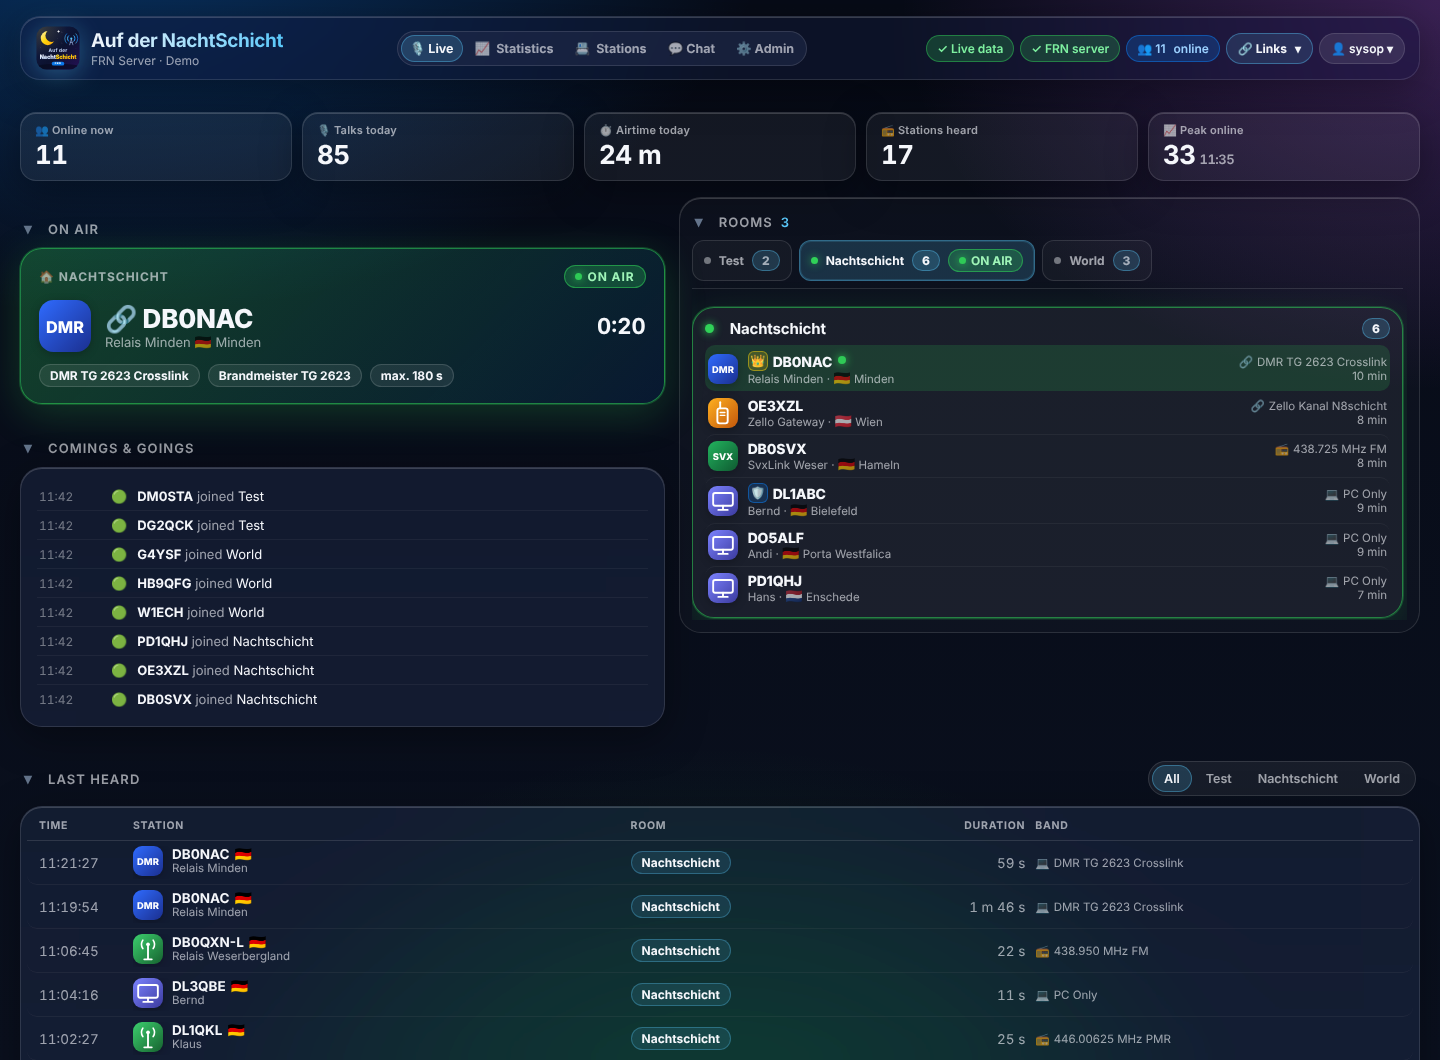
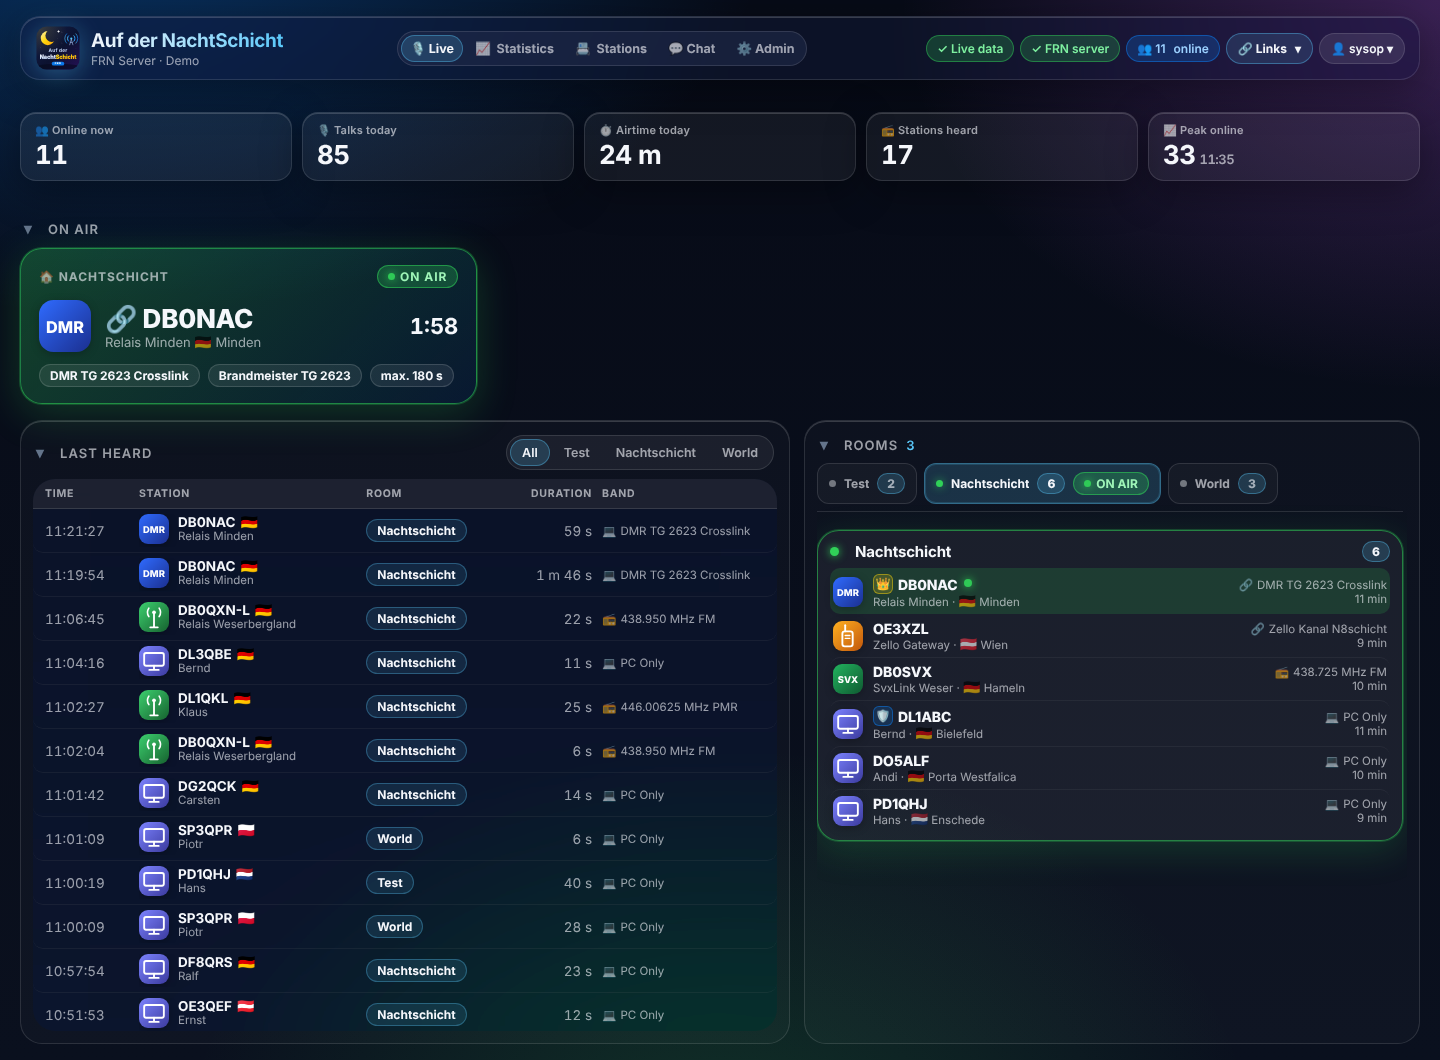
ADN FRN Server 2.4.0: On air oben, Last heard und Räume nebeneinander, Comings & goings in Statistics
- On air direkt unter den Tageskacheln über die volle Breite (still: schmale Zeile)
- Last heard und Rooms nebeneinander, gleich hoch, füllen das Fenster und rollen in sich;
  Höhe passt sich an On air und Fenstergröße an – am Desktop kein Seiten-Scrollen
- Comings & goings im Tab Statistics (letzte 40, live)
- Tablet/Handy: Kacheln, On air, Räume, Last heard
- Doku und Screenshots

Claude-Session: https://claude.ai/code/session_01J5RG2ng91A3UchVF3CB2i8

diff --git a/static/n8-live.css b/static/n8-live.css
@@ -5,16 +5,33 @@
 #tab-live > .stats-bar .stat { padding: 10px 14px; min-width: 0; }
 #tab-live > .stats-bar .stat .v { white-space: nowrap; overflow: hidden; text-overflow: ellipsis; }
 
-/* desktop: tiles / on air + comings & goings left, rooms right / last heard over the full width.
-   On narrow screens the natural order applies: tiles, on air, rooms, last heard, comings & goings. */
-#tab-live { display: grid; grid-template-columns: minmax(0, 1fr) minmax(0, 1.15fr); column-gap: 14px; align-items: start; }
+/* desktop: tiles / on air over the full width / last heard and rooms side by side with the SAME height.
+   Both lists scroll inside their card, so the page itself hardly scrolls. Narrow screens: natural order. */
+#tab-live { display: grid; grid-template-columns: minmax(0, 1.25fr) minmax(0, 1fr); column-gap: 14px; align-items: stretch;
+            --lv-h: clamp(420px, calc(100vh - 300px), 900px); }
 #tab-live > * { min-width: 0; }
 #tab-live > .stats-bar { grid-column: 1 / -1; grid-row: 1; }
-#tab-live > .lv-onair { grid-column: 1; grid-row: 2; }
-#tab-live > .live-rooms { grid-column: 2; grid-row: 2 / span 2; }
-#tab-live > .lv-feed { grid-column: 1; grid-row: 3; }
-#tab-live > .lv-lh { grid-column: 1 / -1; grid-row: 4; }
-#tab-live .feed { max-height: 230px; overflow: auto; }
+#tab-live > .lv-onair { grid-column: 1 / -1; grid-row: 2; }
+#tab-live > .lv-lh { grid-column: 1; grid-row: 3; }
+#tab-live > .live-rooms { grid-column: 2; grid-row: 3; }
+#tab-live > .lv-lh, #tab-live > .live-rooms { display: flex; flex-direction: column; height: var(--lv-h); min-height: 0; }
+#tab-live > .lv-lh > .lh-card, #tab-live > .live-rooms > .rooms { flex: 1 1 auto; min-height: 0; overflow: auto; }
+#tab-live > .lv-lh:has(> .lh-card.hidden), #tab-live > .live-rooms:has(> .rooms.hidden) { height: auto; align-self: start; }
+#tab-live .lh-head { position: sticky; top: 0; z-index: 2; background: var(--surface-2, rgba(20, 26, 45, .9)); }
+/* on air: cards next to each other; "quiet" is one slim line */
+#tab-live .onair { grid-template-columns: repeat(auto-fill, minmax(340px, 1fr)); }
+#tab-live .onair .slot.idle { padding: 9px 16px; display: flex; align-items: center; gap: 14px; min-height: 0; }
+#tab-live .onair .slot.idle .lbl { margin: 0; gap: 10px; }
+#tab-live .onair .slot.idle .idle-text { padding: 0; text-align: left; }
+#tab-live .onair:has(.slot.idle) { grid-template-columns: 1fr; }
+.st-feed .feed { max-height: 360px; overflow: auto; }
+/* last heard gets the same frame as the rooms */
+#tab-live > .lv-lh { border: 1px solid var(--glass-border); border-radius: var(--radius-lg); padding: 12px;
+                     background: rgba(255, 255, 255, .025); box-shadow: inset 0 1px 0 var(--glass-highlight); }
+#tab-live > .lv-lh .section-header { margin: 2px 3px 9px; }
+#tab-live > .lv-lh > .lh-card { background: transparent; border: 0; box-shadow: none; padding: 0 !important; }
+#tab-live > .live-rooms > .rooms { max-height: none; align-content: start; }
+#tab-live > .lv-onair { margin-bottom: 4px; }
 .lh-l1 { display: inline-flex; align-items: center; gap: 5px; }
 
 /* last heard: compact rows */
@@ -38,10 +55,23 @@
 .lh-more { display: block; margin: 6px auto 2px; padding: 5px 14px; border-radius: 999px; font-size: 12px; font-weight: 650; cursor: pointer;
            color: var(--text); background: rgba(127, 127, 127, .1); border: 1px solid var(--glass-border); }
 
+/* the band column is the first to go when last heard gets narrow */
+@media (min-width: 1101px) and (max-width: 1400px) {
+    #tab-live .lh-head, #tab-live .lh-row { grid-template-columns: 70px minmax(0, 1.6fr) minmax(0, 1fr) 64px; }
+    #tab-live .lh-head > :nth-child(5), #tab-live .lh-band { display: none; }
+}
 @media (max-width: 1100px) {
-    #tab-live { display: block; }
+    /* one column: tiles, on air, rooms, last heard */
+    #tab-live { display: flex; flex-direction: column; }
+    #tab-live > .live-rooms { order: 3; } #tab-live > .lv-lh { order: 4; margin-top: 12px; }
+    #tab-live > .lv-lh .section-header { flex-wrap: wrap; row-gap: 6px; }
+    #tab-live > .lv-lh .section-header .seg { max-width: 100%; overflow-x: auto; }
+    #tab-live > .lv-lh, #tab-live > .live-rooms { height: auto; display: block; }
+    #tab-live > .lv-lh > .lh-card, #tab-live > .live-rooms > .rooms { overflow: visible; }
+    #tab-live .lh-head { position: static; }
 }
 @media (max-width: 760px) {
+    #tab-live > .lv-lh { padding: 8px; }
     .lh-head { display: none; }
     .lh-row { grid-template-columns: minmax(0, 1fr) auto; grid-template-areas: "st time" "band room"; row-gap: 2px; padding: 7px 8px; }
     .lh-st { grid-area: st; } .lh-time { grid-area: time; font-size: 12px; } .lh-room { grid-area: room; justify-self: end; }

diff --git a/static/app.js b/static/app.js
@@ -456,7 +456,8 @@ function renderLH(newId) {
     rows = rows.slice(0, 20);
     const more = $('lhMore');
     if (!rows.length) { $('lhBody').innerHTML = '<div class="lh-empty">Nothing heard yet.</div>'; if (more) more.hidden = true; return; }
-    const limit = matchMedia('(max-width: 760px)').matches ? 5 : 8;
+    // desktop: last heard scrolls inside its box next to the rooms, so all rows are shown; phone/tablet: 5 / 8 + "Show all"
+    const limit = matchMedia('(max-width: 760px)').matches ? 5 : matchMedia('(min-width: 1101px)').matches ? 1000 : 8;
     if (more) { more.hidden = rows.length <= limit; more.textContent = S.lhAll ? 'Show less ▴' : `Show all ${rows.length} ▾`; }
     if (!S.lhAll) rows = rows.slice(0, limit);
     $('lhBody').innerHTML = rows.map(e => `<div class="lh-row ${e.id === newId ? 'new' : ''}" role="listitem">
@@ -468,7 +469,7 @@ function renderLH(newId) {
 }
 function renderFeed(flash) {
     const v = (S.live && S.live.visits) || [];
-    $('feed').innerHTML = v.length ? v.slice(0, 14).map((e, i) => `<div class="ev ${flash && i === 0 ? 'new' : ''}"><span class="t">${fmtTime(e.ts).slice(0, 5)}</span>
+    $('feed').innerHTML = v.length ? v.slice(0, 40).map((e, i) => `<div class="ev ${flash && i === 0 ? 'new' : ''}"><span class="t">${fmtTime(e.ts).slice(0, 5)}</span>
         <span>${e.action === 'login' ? '🟢' : '⚪'}</span><span style="min-width:0;flex:1"><b class="station-link" onclick="openStation('${esc(e.callsign)}')">${esc(e.callsign)}</b>
         <span class="dim">${e.action === 'login' ? 'joined' : 'left'}</span> ${esc(e.room)}</span></div>`).join('') : '<div class="empty">No logins yet.</div>';
 }
@@ -1330,4 +1331,19 @@ boot();
         document.querySelectorAll(`[data-body="${k}"]`).forEach(b => b.classList.toggle('hidden', on)); };
     document.querySelectorAll('.collapsible[data-section]').forEach(h => { apply(h.dataset.section);
         h.addEventListener('click', () => { st[h.dataset.section] = !st[h.dataset.section]; try { localStorage.setItem(KEY, JSON.stringify(st)); } catch (e) {} apply(h.dataset.section); }); });
+})();
+
+// Desktop live page: last heard and rooms fill the rest of the window (same height, both scroll inside),
+// so on air, the lists and everything above fit on one screen. Recomputed when on air or the window changes.
+(function () {
+    const page = $('tab-live'), box = page && page.querySelector('.lv-lh');
+    if (!box || !window.ResizeObserver) return;
+    const fit = () => {
+        if (!matchMedia('(min-width: 1101px)').matches || page.classList.contains('hidden')) return;
+        const top = box.getBoundingClientRect().top + scrollY;
+        page.style.setProperty('--lv-h', Math.max(420, Math.min(1000, innerHeight - top - 16)) + 'px');
+    };
+    new ResizeObserver(fit).observe(page.querySelector('.lv-onair'));
+    addEventListener('resize', fit);
+    setTimeout(fit, 300);
 })();

diff --git a/static/index.html b/static/index.html
@@ -64,10 +64,7 @@
             <h2 class="section-header collapsible" data-section="onair"><span class="collapse-caret">▾</span>On air</h2>
             <div class="onair" id="onair" data-body="onair"></div>
         </div>
-        <div class="live-rooms">
-            <h2 class="section-header collapsible" data-section="rooms"><span class="collapse-caret">▾</span>Rooms <span class="count" id="roomCount"></span></h2>
-            <div class="rooms" id="rooms" data-body="rooms"></div>
-        </div>
+        <!-- last heard and rooms side by side with the same height; each scrolls inside -->
         <div class="lv-lh">
             <h2 class="section-header collapsible" data-section="lh"><span class="collapse-caret">▾</span>Last heard <span class="seg" id="lhFilter" style="margin-left:auto" onclick="event.stopPropagation()"></span></h2>
             <div class="card lh-card" data-body="lh">
@@ -76,9 +73,9 @@
                 <button type="button" class="lh-more" id="lhMore" hidden onclick="S.lhAll = !S.lhAll; renderLH()"></button>
             </div>
         </div>
-        <div class="lv-feed">
-            <h2 class="section-header collapsible" data-section="feed"><span class="collapse-caret">▾</span>Comings &amp; goings</h2>
-            <div class="card" data-body="feed"><div class="feed" id="feed"><div class="empty">–</div></div></div>
+        <div class="live-rooms">
+            <h2 class="section-header collapsible" data-section="rooms"><span class="collapse-caret">▾</span>Rooms <span class="count" id="roomCount"></span></h2>
+            <div class="rooms" id="rooms" data-body="rooms"></div>
         </div>
     </section>
 
@@ -110,6 +107,8 @@
                 <div class="panel"><h3><span>Most active stations</span></h3><div class="tbl-wrap"><table class="tbl">
                     <thead><tr><th>Station</th><th class="num">Talks</th><th class="num">Airtime</th><th class="hide-sm">Mostly in</th></tr></thead><tbody id="stStTable"></tbody></table></div></div>
             </div>
+            <div class="panel st-feed" style="margin-top:14px"><h3><span>🚪 Comings &amp; goings</span><small>logins and logouts, live</small></h3>
+                <div class="feed" id="feed"><div class="empty">–</div></div></div>
         </div>
     </section>
 

diff --git a/frnadn/__init__.py b/frnadn/__init__.py
@@ -1,2 +1,2 @@
 """frn_adn – dashboard and admin area for the FRN server, design: Auf der NachtSchicht."""
-__version__ = "2.3.0"
+__version__ = "2.4.0"

diff --git a/docs/de/dashboard.md b/docs/de/dashboard.md
@@ -8,17 +8,24 @@ Das Dashboard ist eine einzige Seite mit Tabs. Die Live-Daten liest frn_adn aus 
 
 ## Startseite wie beim DMR-Dashboard
 
-Seit Version 2.3.0 ist die Live-Seite genauso aufgebaut wie die Startseite von **DMR Die N8schicht** (HBlink4-FreeRadioID):
-oben die Tageszahlen als Kacheln, darunter zwei Spalten – links **On air** und **Comings & goings**, rechts die **Räume** –
-und über die ganze Breite die kompakte **Last-heard**-Liste. Man muss am Desktop kaum scrollen.
+Seit Version 2.3 ist die Live-Seite wie die Startseite von **DMR Die N8schicht** aufgebaut, ab 2.4 so, dass man am Desktop
+praktisch nicht mehr scrollen muss:
+
+1. **Kacheln** mit den Tageszahlen
+2. **On air** über die ganze Breite – wer gerade spricht, pro Raum eine Karte; ist es still, eine schmale Zeile mit dem letzten Durchgang
+3. **Last heard** (links) und **Rooms** (rechts) **nebeneinander und gleich hoch**. Beide füllen den Rest des Fensters und rollen
+   in sich; die Höhe passt sich an, wenn On air wächst oder das Fenster sich ändert.
 
 | Bereich | Inhalt |
 |---|---|
 | **Kacheln** | *Online now*, *Talks today*, *Airtime today*, *Stations heard*, *Peak online* mit Uhrzeit |
-| **On air** | wer gerade spricht – pro Raum eine grüne Karte mit Avatar, Rufzeichen, Name, Ort, Band und laufender Zeit |
-| **Rooms** | Raum-Auswahl als Chips (Zahl der Stationen, ● ON AIR); geöffnet ist der Raum, in dem gesprochen wird, sonst der vollste |
-| **Comings & goings** | Logins und Logouts mit Uhrzeit |
-| **Last heard** | eine Zeile pro Durchgang: Zeit, Avatar, Rufzeichen mit Flagge, Raum, Dauer, Band. Die ersten 8 (Handy: 5) stehen da, **Show all** zeigt alle |
+| **On air** | Avatar, Rufzeichen, Name, Ort, Band und laufende Zeit |
+| **Last heard** | eine Zeile pro Durchgang: Zeit, Avatar, Rufzeichen mit Flagge, Raum, Dauer, Band; filterbar nach Raum. Am Desktop stehen alle letzten 20 Durchgänge in der Liste (sie rollt), bis 1400 px Breite ohne die Spalte *Band* |
+| **Rooms** | Raum-Chips mit Stationszahl und ● ON AIR; geöffnet ist der Raum, in dem gesprochen wird, sonst der vollste |
+
+**Comings & goings** (Logins und Logouts) steht seit 2.4 im Tab **📈 Statistics** ganz unten.
+
+Unter 1100 px Breite (Tablet, Handy) ist alles einspaltig: Kacheln, On air, Räume, Last heard (5 bzw. 8 Einträge, **Show all**).
 
 <p align="center"><img src="../images/rooms-avatars.png" alt="Raumliste mit Client-Avataren und Rollen" width="60%"></p>
 
@@ -74,8 +81,7 @@ Die Abschnitte lassen sich wie beim DMR-Dashboard mit **▾** zuklappen; der Bro
 - **Today** – Online jetzt, Durchgänge, Sprechzeit, gehörte Stationen und Spitzenwert heute.
 - **On air** – pro Raum eine grüne Karte mit Client-Avatar, Rufzeichen, Name, Ort, Band und laufender Zeit; `max. 180 s` ist die maximale Sendezeit des Raums. Auch der Parrot erscheint hier, wenn er einen Durchgang abspielt.
 - **Rooms** – jeder Raum mit seinen Stationen, Avatar = Client-Software (siehe oben), danach 👑/🛡 und das Rufzeichen; rechts Band und Dauer; 🔇 stumm. Die Stationsliste sortiert Crosslinks zuerst, dann Admins/Owner, QRV, QRL und die übrigen Stationen. **PC Only steht immer am Ende.** 🔒 = auf dem Dashboard versteckt (nur nach Login).
-- **Last heard** – die letzten Durchgänge mit Dauer laut FRN-Server, filterbar nach Raum (*All* oder ein Raum); kompakt mit **Show all**.
-- **Comings & goings** – Logins und Logouts.
+- **Last heard** – die letzten Durchgänge mit Dauer laut FRN-Server, filterbar nach Raum (*All* oder ein Raum); neben den Räumen, gleich hoch.
 
 Ein Klick auf eine Station öffnet ihre Detailansicht. Moderiert wird – wie bei FRN üblich – im FRN-Client als Owner oder Admin (Rechtsklick auf die Station); das Dashboard zeigt das Ergebnis sofort an.
 
@@ -89,6 +95,9 @@ Zeitraum *Today, 24 h, 7/30/90 days, 1 year* und Maß *Airtime* oder *Talks*.
 - **Stations online** – Maximum, alle 5 Minuten gemessen
 - **When is talked** – Wochentag × Uhrzeit
 - Tabellen **Rooms** und **Most active stations**
+- **Comings & goings** – Logins und Logouts, live (die letzten 40)
+
+<p align="center"><img src="../images/stats-feed.png" alt="Comings & goings im Statistik-Tab" width="90%"></p>
 
 Für lange Zeiträume rechnet frn_adn mit Tagessummen und speichert Ergebnisse im Cache.
 

diff --git a/readme.md b/readme.md
@@ -8,7 +8,7 @@
 </p>
 
 <p align="center">
-  <a href="CHANGELOG.md"><img alt="Version" src="https://img.shields.io/badge/Version-2.3.0-4f8cff"></a>
+  <a href="CHANGELOG.md"><img alt="Version" src="https://img.shields.io/badge/Version-2.4.0-4f8cff"></a>
   <a href="CHANGELOG.md"><img alt="Änderungen" src="https://img.shields.io/badge/Änderungen-CHANGELOG-7c5cff"></a>
   <a href="LICENSE"><img alt="Lizenz" src="https://img.shields.io/badge/Lizenz-GPLv3-30d158"></a>
 </p>
@@ -33,7 +33,7 @@ ADN FRN Server ist eine **frische Oberfläche für den Java-FRN-Server** von fre
 
 | | |
 |---|---|
-| 🎙 **Live-Dashboard** | Aufgebaut wie die Startseite von DMR Die N8schicht: Tageskacheln, **ON AIR**, Räume mit sortierten Stationslisten (Crosslinks, Admins, QRV, QRL; PC Only zuletzt), kompakte Last-heard-Liste und Comings & goings. Für Smartphone und Desktop gebaut, Änderungen kommen per WebSocket sofort. |
+| 🎙 **Live-Dashboard** | Aufgebaut wie die Startseite von DMR Die N8schicht: Tageskacheln, **ON AIR**, darunter Last heard und Räume nebeneinander in gleicher Höhe – am Desktop ohne Scrollen. Stationslisten sortiert (Crosslinks, Admins, QRV, QRL; PC Only zuletzt). Comings & goings im Statistik-Tab. Für Smartphone und Desktop gebaut, Änderungen kommen per WebSocket sofort. |
 | 📡 **Avatar = Client-Software** | Jede Station zeigt, woher sie kommt: DMR, Zello, SvxLink, EchoLink, AllStar, YSF, D-STAR, M17, TeamSpeak, Crosslink, Funk-Gateway, PC. 👑 Owner und 🛡 Admin stehen direkt vor dem Rufzeichen. Eigene Bilder je Art hochladbar. |
 | 📈 **Statistik** | Sprechzeit und Durchgänge je Raum und Station, heute bis ein Jahr, Aktivität nach Wochentag und Uhrzeit, Spitzenwert der Stationen online. |
 | 📇 **Stationen** | Alle gehörten Stationen mit Suche, Avatar, Land und Ort; Detailansicht je Station. |

diff --git a/CHANGELOG.md b/CHANGELOG.md
@@ -2,6 +2,17 @@
 
 Format: neueste Version zuerst. Die Versionsnummer steht in `frnadn/__init__.py`.
 
+## 2.4.0 – 2026-11-22
+
+### Geändert
+- **Live-Seite ohne Scrollen:** *On air* steht jetzt direkt unter den Tageskacheln über die ganze Breite (still: eine schmale Zeile).
+  Darunter **Last heard** und **Rooms nebeneinander und gleich hoch**; beide füllen den Rest des Fensters und rollen in sich.
+  Die Höhe passt sich automatisch an, wenn On air wächst oder das Fenster sich ändert. Last heard zeigt am Desktop alle 20 letzten
+  Durchgänge (zwischen 1100 und 1400 px ohne Spalte *Band*).
+- **Comings & goings** ist in den Tab **Statistics** umgezogen (ganz unten, die letzten 40 Logins/Logouts, live).
+- Tablet/Handy (unter 1100 px): einspaltig in der Reihenfolge Kacheln, On air, Räume, Last heard; die Raumfilter von Last heard
+  brechen am Handy sauber um.
+
 ## 2.3.0 – 2026-11-22
 
 Neues Aussehen wie bei **DMR Die N8schicht**: Startseite, Farben und Kopfzeile folgen jetzt dem Dashboard von
